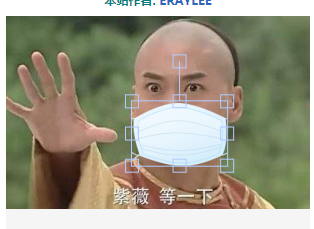
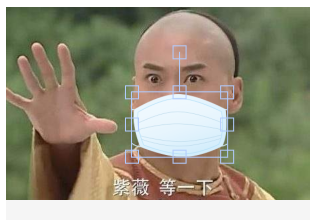
更新文档

diff --git a/src/utils/index.ts b/src/utils/index.ts
@@ -2,7 +2,7 @@
  * @Author: ERAYLEE
  * @Date: 2020-02-12 10:45:17
  * @LastEditors: ERAYLEE
- * @LastEditTime: 2020-02-25 17:29:34
+ * @LastEditTime: 2020-02-25 17:39:24
  */
 import * as faceapi from "face-api.js";
 import { FaceDetection, WithFaceLandmarks, FaceLandmarks68 } from "face-api.js";
@@ -157,7 +157,7 @@ class Utils {
       left,
       scaleX,
       scaleY,
-      // angle
+      angle
     });
     this.canvas?.add(img);
   };

diff --git a/README.md b/README.md
@@ -1,9 +1,10 @@
 ## 给你的头像戴上口罩
 ![image](https://raw.githubusercontent.com/Eraylee/wear-mask/master/screenshot/20200222171719.png)
+体验地址：[http://project.wear-mask.eraylee.com/](http://project.wear-mask.eraylee.com/)
 ## 前言
-自新冠肺炎肆虐以来，百姓们人心惶惶，口罩一扫而空，一罩难求，出去买口罩，买不到不说还损失一个口罩。想到这里，我决定自己撸一个戴口罩的小页面，给头像戴一个图图吉利。
+在家闲的无聊，想到之前看到有人写过自动添加圣诞帽的小程序，忽然间来了灵感，准备自己写一个戴口罩的小网页。
 ## 基本功能
-上传图片，通过算法记录图片人脸位置，将口罩覆盖到对应的位置，能够微调纠正口罩大小、位置、角度；不能够识别的人脸的图片，口罩自动生成，且需自行调整口罩。
+上传图片，通过算法识别图片人脸位置；如果能够识别出人脸，将口罩覆盖到对应的位置，能够微调纠正口罩大小、位置、角度，如果不能识别，口罩自动生成，且需自行调整口罩。
 ## 如何识别人脸
 首先想到了使用[Tensorflow.js](https://tensorflow.google.cn/js/tutorials)来进行人脸识别，获取人脸坐标点。引用官方介绍：
 > TensorFlow.js 是一个用于使用 JavaScript 进行机器学习开发的库
@@ -134,11 +135,11 @@ canvas.add(img);
 ![](https://raw.githubusercontent.com/Eraylee/wear-mask/master/screenshot/20200224204613.png)
 
 我们换一个稍微歪一点的脸试试：
-![](https://raw.githubusercontent.com/Eraylee/wear-mask/master/screenshot/20200224210208.png)
+![](https://raw.githubusercontent.com/Eraylee/wear-mask/master/screenshot/20200225172958.png)
 
 发现问题了吗？我们没有考虑脸部倾斜的情况，人脸一歪，口罩的位置就不对了，我们肯定得把这个问题扼杀在摇篮中！
 继续画辅助线来分析一下~
-![](https://raw.githubusercontent.com/Eraylee/wear-mask/master/screenshot/20200224211501.png)
+![](https://raw.githubusercontent.com/Eraylee/wear-mask/master/screenshot/20200224210208.png)
 
 我们选取鼻子顶部端点与下巴底部端点连成`线l`，此`线l`与y轴的夹角等于人脸的偏转角度，我们用`角α`来表示这个角，那么这个角度怎么求呢？这个就涉及到三角函数了，高中知识忘了的赶紧去复习复习！
 `Math.atan2`方法返回一个数值-π和π代表之间的角θ(x, y)。这是正X轴与点(X, Y)之间的逆时针角度，以弧度表示。我们可以根据`Math.atan2`这个api获取上图`角β`的弧度，我们需要乘`180 / Math.PI`来计算出角度（180度=PI弧度,所以1度 = PI/180），将其角度减去90度就能求得`角α`的角度。
